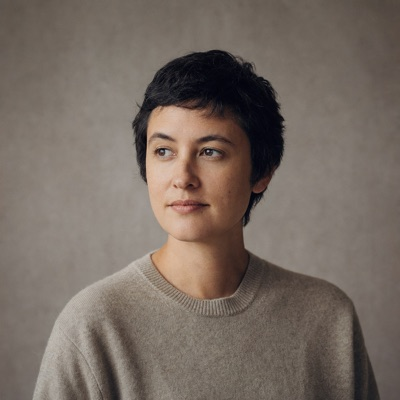
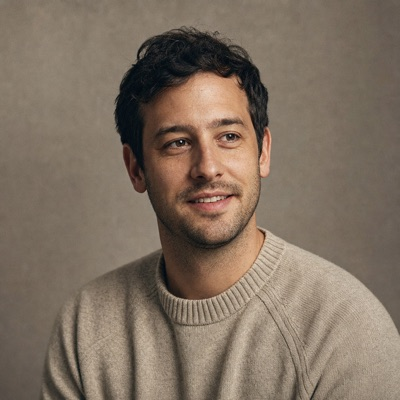
The persona is Theo Marsh
A friendlier portrait — same window light, same putty backdrop, same
editorial restraint, so the world is unchanged — and a name that sounds
like a design engineer rather than a pen name. The favicon is recut from
the new avatar and still reads as a face at 16px on a dark tab.

diff --git a/files/resources/views/pages/about.blade.php b/files/resources/views/pages/about.blade.php
@@ -1,6 +1,6 @@
-<x-layouts.main title="About" description="Wren Halliday — design engineer at Foldwork, writing about small tools from a flat in Bristol." current="/about">
+<x-layouts.main title="About" description="Theo Marsh — design engineer at Foldwork, writing about small tools from a flat in Bristol." current="/about">
     <x-sections.page-intro heading="About" />
-    <x-sections.prose body="<p>I am Wren. I design and build developer tools, which mostly means I spend my days on the parts of software that other people have to use in order to do their real work.</p><p>I came at it sideways. I trained as a graphic designer, spent two years in an agency setting type for things I did not believe in, and learned to program because a print job needed four hundred variations and I was not going to make them by hand. That is still roughly how I decide what to build: something is tedious, the tedium has a shape, and the shape can be described to a computer.</p><h2>What I care about</h2><p>Tools that are small enough to understand completely. Interfaces that tell you the truth about what they are doing. Software you can still open in ten years because it did not need a server. None of that is a philosophy — it is just what I have found to be true after shipping enough things that were none of those and watching them rot.</p><h2>This site</h2><p>Everything here is written by hand and generated by <a href='/projects/halfmoon'>Halfmoon</a>, which is six hundred lines of Go I can read in an afternoon. There is no analytics, no newsletter, and no comment section. If something here is wrong or useful, tell me — the address is on the homepage.</p>" />
+    <x-sections.prose body="<p>I am Theo. I design and build developer tools, which mostly means I spend my days on the parts of software that other people have to use in order to do their real work.</p><p>I came at it sideways. I trained as a graphic designer, spent two years in an agency setting type for things I did not believe in, and learned to program because a print job needed four hundred variations and I was not going to make them by hand. That is still roughly how I decide what to build: something is tedious, the tedium has a shape, and the shape can be described to a computer.</p><h2>What I care about</h2><p>Tools that are small enough to understand completely. Interfaces that tell you the truth about what they are doing. Software you can still open in ten years because it did not need a server. None of that is a philosophy — it is just what I have found to be true after shipping enough things that were none of those and watching them rot.</p><h2>This site</h2><p>Everything here is written by hand and generated by <a href='/projects/halfmoon'>Halfmoon</a>, which is six hundred lines of Go I can read in an afternoon. There is no analytics, no newsletter, and no comment section. If something here is wrong or useful, tell me — the address is on the homepage.</p>" />
     <x-sections.background heading="The short version" />
     <x-sections.link-group :links="$site->elsewhere_links" heading="Elsewhere" note="Email is the one I actually read." />
 </x-layouts.main>

diff --git a/files/resources/views/pages/now.blade.php b/files/resources/views/pages/now.blade.php
@@ -1,4 +1,4 @@
-<x-layouts.main title="Now" description="What Wren Halliday is working on, reading and avoiding this month." current="/now">
+<x-layouts.main title="Now" description="What Theo Marsh is working on, reading and avoiding this month." current="/now">
     <x-sections.page-intro heading="Now" />
     <x-sections.note />
     <x-sections.prose body="<h2>Work</h2><p>Most of my week goes to a rewrite of Foldwork's build pipeline. It is the least glamorous thing I have worked on in years and easily the most satisfying: every week the feedback loop gets shorter for forty people at once, and you can watch it happen in the graph.</p><h2>Outside work</h2><p>Ledger got a proper query language in June and I have been living on it since, which is the only way I have ever found a design flaw before other people do. Quiet Hours is stable and I am refusing to add history to it, politely, once a week.</p><h2>Reading</h2><p>Slowly through <em>The Timeless Way of Building</em> for the second time, and finding it much better and much stranger than I remembered. Also a lot of railway history, for no reason I can defend.</p><h2>Not doing</h2><p>Conferences, for now. Contract work. Anything that requires me to have an opinion about the future of the industry.</p>" />

diff --git a/files/resources/views/pages/writing.blade.php b/files/resources/views/pages/writing.blade.php
@@ -1,4 +1,4 @@
-<x-layouts.main title="Writing" description="Everything Wren Halliday has published — on shipping small, reading unfamiliar code, and the habits that survived being measured." current="/writing">
+<x-layouts.main title="Writing" description="Everything Theo Marsh has published — on shipping small, reading unfamiliar code, and the habits that survived being measured." current="/writing">
     <x-sections.page-intro heading="Writing" lede="Six pieces, mostly about building things at a size one person can hold. Newest first." />
     <x-sections.writing-list heading="" showDescriptions="1" />
 </x-layouts.main>

diff --git a/files/resources/views/pages/index.blade.php b/files/resources/views/pages/index.blade.php
@@ -1,4 +1,4 @@
-<x-layouts.main title="Home" description="Wren Halliday is a designer and engineer in Bristol building small tools, and writing down what building them taught him." current="/">
+<x-layouts.main title="Home" description="Theo Marsh is a designer and engineer in Bristol building small tools, and writing down what building them taught him." current="/">
     <x-sections.intro />
     <x-sections.writing-list heading="Writing" viewAllText="Everything I have written" viewAllHref="/writing" />
     <x-sections.project-list heading="Projects" viewAllText="All five projects" viewAllHref="/projects" />

diff --git a/files/resources/views/components/footer.blade.php b/files/resources/views/components/footer.blade.php
@@ -1,7 +1,7 @@
 @props([
     'links' => [],
     'note' => 'Set in Spectral and Schibsted Grotesk.',
-    'copyright' => '© 2026 Wren Halliday',
+    'copyright' => '© 2026 Theo Marsh',
 ])
 {{-- The close: a hairline on the column's own edge — the same register as
      every other rule on the site — then the four links and a line about how

diff --git a/files/resources/views/components/nav.blade.php b/files/resources/views/components/nav.blade.php
@@ -2,7 +2,7 @@
     'links' => [],
     'current' => '/',
     'avatar' => '/images/avatar.jpg',
-    'avatarAlt' => 'Wren Halliday',
+    'avatarAlt' => 'Theo Marsh',
 ])
 {{-- The header is one row of type on bare paper: the avatar, which is this
      site's only mark, and the four places you can go. No bar, no border, no
